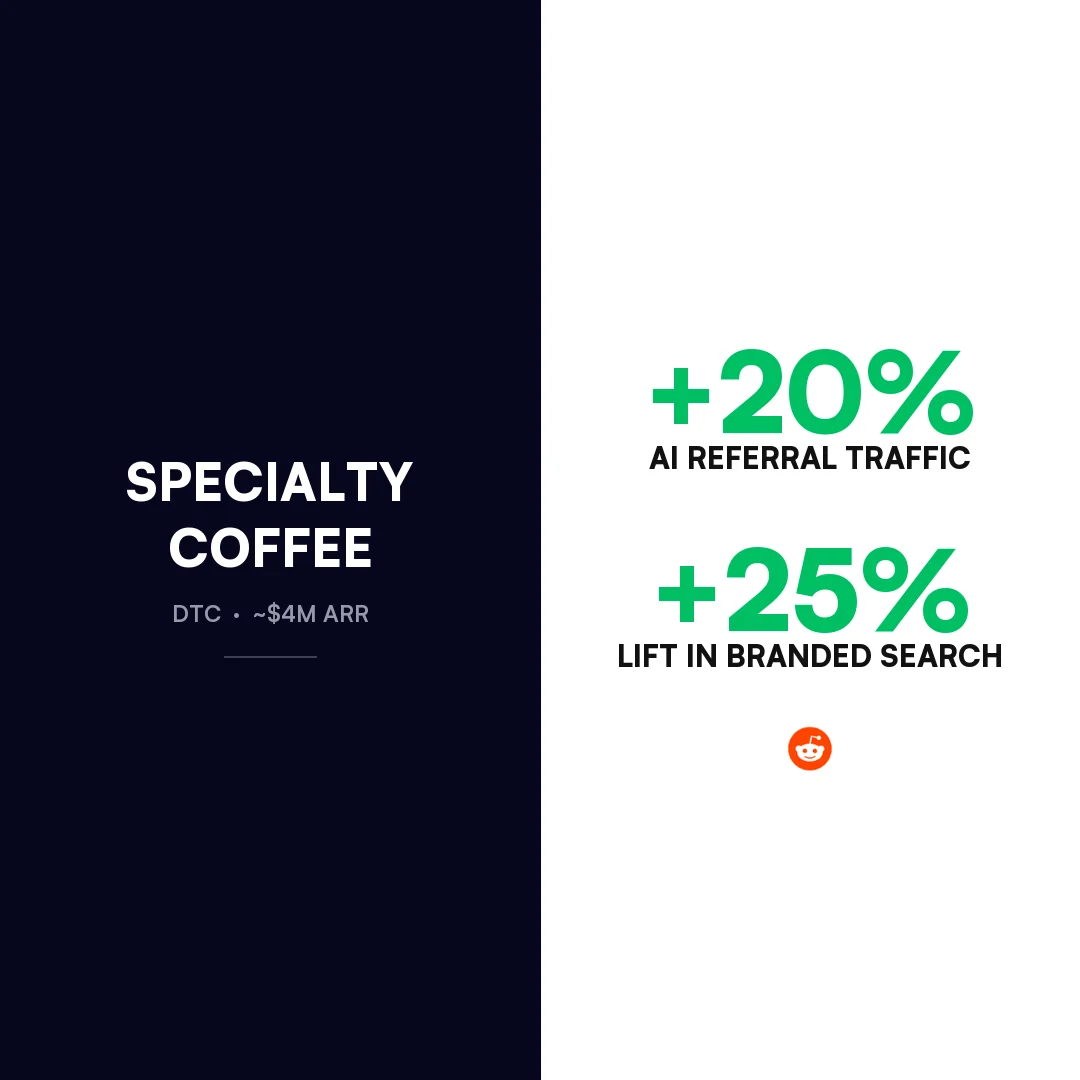
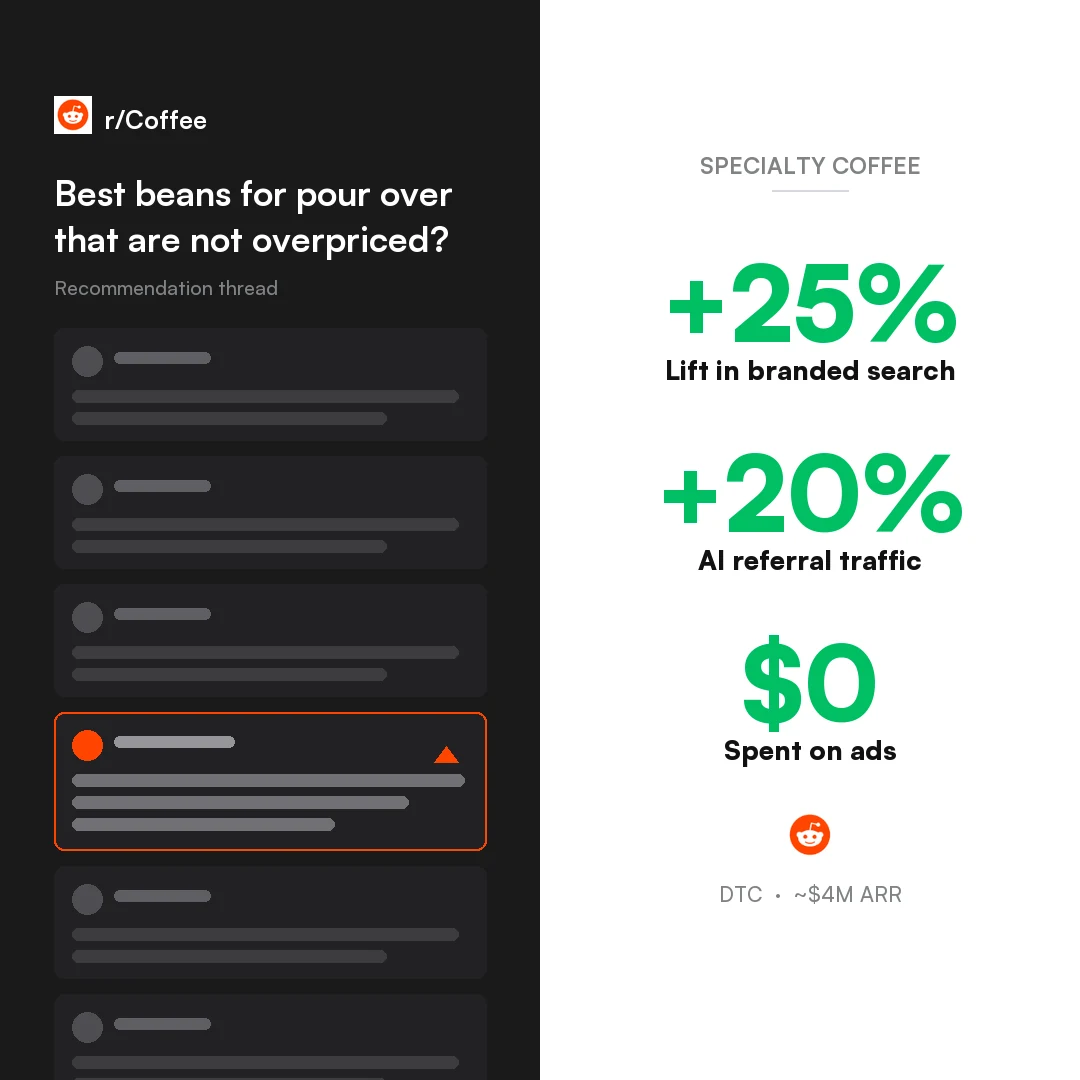
design(case-studies): redo the four Reddit covers
First pass copied the Flare cover's dark navy, but that navy is Flare's own
brand colour from their ad creative, not ours. The house style on CozyBeds,
Lottery and Restream puts rich client imagery in the left panel; mine had
flat colour and centred text, which is why they read as dull.

These clients cannot be named, so the left panel is now a Reddit thread
treatment: the subreddit, the question that actually drives the purchase,
and six anonymised comment rows with one highlighted in orange as the
earned recommendation. Comment bodies are abstracted bars rather than
invented quotes, so nothing fabricates a specific real thread. The last row
bleeds off the bottom edge so the thread reads as continuing.

Right panel moves to three stats to match the other covers, and adds a
category eyebrow and ARR band. Coffee now leads with the fact worth having
on a cover: /bin/zsh spent on ads.

diff --git a/case-studies.html b/case-studies.html
@@ -310,7 +310,7 @@
 
   <a href="/work/dtc-gifting-reddit-ads" class="cs-card" data-cat="dtc">
     <div class="cs-card-img">
-      <img src="/assets/Gifting Reddit Case Study.webp" alt="DTC personalized gifting brand Reddit Ads case study, 2.36x ROAS" loading="lazy">
+      <img src="/assets/Gifting Reddit Case Study.webp?v=d28a824f" alt="DTC personalized gifting brand Reddit Ads case study, 2.36x ROAS" loading="lazy">
     </div>
     <div class="cs-card-body">
       <div class="cs-card-tag"><span class="tag-dtc">eComm / DTC</span><span class="tag-dtc" style="background:rgba(234,88,12,0.05);">Reddit Ads</span></div>
@@ -322,7 +322,7 @@
 
   <a href="/work/personal-safety-reddit-ads" class="cs-card" data-cat="dtc">
     <div class="cs-card-img">
-      <img src="/assets/Personal Safety Reddit Case Study.webp" alt="Personal safety DTC brand Reddit Ads case study, 3x ROAS in a restricted category" loading="lazy">
+      <img src="/assets/Personal Safety Reddit Case Study.webp?v=d28a824f" alt="Personal safety DTC brand Reddit Ads case study, 3x ROAS in a restricted category" loading="lazy">
     </div>
     <div class="cs-card-body">
       <div class="cs-card-tag"><span class="tag-dtc">eComm / DTC</span><span class="tag-dtc" style="background:rgba(234,88,12,0.05);">Reddit Ads &middot; Restricted</span></div>
@@ -334,7 +334,7 @@
 
   <a href="/work/skincare-reddit-q4" class="cs-card" data-cat="dtc">
     <div class="cs-card-img">
-      <img src="/assets/Skincare Reddit Case Study.webp" alt="Beauty and skincare brand Reddit organic and paid Q4 case study, 2.1x ROAS" loading="lazy">
+      <img src="/assets/Skincare Reddit Case Study.webp?v=d28a824f" alt="Beauty and skincare brand Reddit organic and paid Q4 case study, 2.1x ROAS" loading="lazy">
     </div>
     <div class="cs-card-body">
       <div class="cs-card-tag"><span class="tag-dtc">eComm / DTC</span><span class="tag-dtc" style="background:rgba(234,88,12,0.05);">Reddit Organic + Paid</span></div>
@@ -346,7 +346,7 @@
 
   <a href="/work/coffee-reddit-organic" class="cs-card" data-cat="dtc">
     <div class="cs-card-img">
-      <img src="/assets/Coffee Reddit Case Study.webp" alt="Specialty coffee roaster Reddit organic marketing case study, branded search lift" loading="lazy">
+      <img src="/assets/Coffee Reddit Case Study.webp?v=d28a824f" alt="Specialty coffee roaster Reddit organic marketing case study, branded search lift" loading="lazy">
     </div>
     <div class="cs-card-body">
       <div class="cs-card-tag"><span class="tag-dtc">eComm / DTC</span><span class="tag-dtc" style="background:rgba(234,88,12,0.05);">Reddit Organic</span></div>

diff --git a/work/personal-safety-reddit-ads.html b/work/personal-safety-reddit-ads.html
@@ -11,9 +11,9 @@
   <meta property="og:url" content="https://skipthenoisemedia.com/work/personal-safety-reddit-ads">
   <meta property="og:title" content="Personal Safety DTC &mdash; 3x ROAS on Reddit Ads in a Restricted Category">
   <meta property="og:description" content="How a ~$2.5M ARR personal safety brand advertised on Reddit despite weapons-policy filters, reaching 3x ROAS at test scale and scaling from $5K to $10K a month.">
-  <meta property="og:image" content="https://skipthenoisemedia.com/assets/Personal Safety Reddit Case Study.png">
+  <meta property="og:image" content="https://skipthenoisemedia.com/assets/Personal Safety Reddit Case Study.png?v=d28a824f">
   <meta name="twitter:card" content="summary_large_image">
-  <meta name="twitter:image" content="https://skipthenoisemedia.com/assets/Personal Safety Reddit Case Study.png">
+  <meta name="twitter:image" content="https://skipthenoisemedia.com/assets/Personal Safety Reddit Case Study.png?v=d28a824f">
   <link rel="canonical" href="https://skipthenoisemedia.com/work/personal-safety-reddit-ads">
   <link rel="preconnect" href="https://api.fontshare.com" crossorigin>
   <link rel="preload" href="https://api.fontshare.com/v2/css?f[]=satoshi@300,400,500,700,900&display=swap" as="style" onload="this.onload=null;this.rel='stylesheet'">
@@ -28,7 +28,7 @@
   "@type": "Article",
   "headline": "Personal Safety DTC \u2014 3x ROAS on Reddit Ads in a Restricted Category",
   "description": "How a ~$2.5M ARR personal safety brand advertised on Reddit despite weapons-policy filters, reaching 3x ROAS at test scale and scaling from $5K to $10K a month.",
-  "image": "https://skipthenoisemedia.com/assets/Personal Safety Reddit Case Study.png",
+  "image": "https://skipthenoisemedia.com/assets/Personal Safety Reddit Case Study.png?v=d28a824f",
   "author": {
     "@type": "Organization",
     "name": "Skip the Noise Media",
@@ -287,7 +287,7 @@
       <p class="cs-hero-desc">Reddit is where women ask each other what they actually carry. Not in a tactical way. In a &ldquo;what fits on my keys and won&rsquo;t get me weird looks&rdquo; way.</p>
     </div>
     <div class="cs-hero-img">
-      <img src="/assets/Personal Safety Reddit Case Study.png" alt="Personal Safety & Lifestyle · Reddit Ads Reddit case study" loading="eager">
+      <img src="/assets/Personal Safety Reddit Case Study.png?v=d28a824f" alt="Personal Safety & Lifestyle · Reddit Ads Reddit case study" loading="eager">
     </div>
   </div>
 </section>

diff --git a/work/coffee-reddit-organic.html b/work/coffee-reddit-organic.html
@@ -11,9 +11,9 @@
   <meta property="og:url" content="https://skipthenoisemedia.com/work/coffee-reddit-organic">
   <meta property="og:title" content="Specialty Coffee Roaster &mdash; Reddit Organic Case Study">
   <meta property="og:description" content="How a ~$4M ARR specialty coffee roaster earned recommendations in r/Coffee, r/espresso and r/pourover with no ad spend, lifting branded search 25% and AI referral traffic 20%.">
-  <meta property="og:image" content="https://skipthenoisemedia.com/assets/Coffee Reddit Case Study.png">
+  <meta property="og:image" content="https://skipthenoisemedia.com/assets/Coffee Reddit Case Study.png?v=d28a824f">
   <meta name="twitter:card" content="summary_large_image">
-  <meta name="twitter:image" content="https://skipthenoisemedia.com/assets/Coffee Reddit Case Study.png">
+  <meta name="twitter:image" content="https://skipthenoisemedia.com/assets/Coffee Reddit Case Study.png?v=d28a824f">
   <link rel="canonical" href="https://skipthenoisemedia.com/work/coffee-reddit-organic">
   <link rel="preconnect" href="https://api.fontshare.com" crossorigin>
   <link rel="preload" href="https://api.fontshare.com/v2/css?f[]=satoshi@300,400,500,700,900&display=swap" as="style" onload="this.onload=null;this.rel='stylesheet'">
@@ -28,7 +28,7 @@
   "@type": "Article",
   "headline": "Specialty Coffee Roaster \u2014 Reddit Organic Case Study",
   "description": "How a ~$4M ARR specialty coffee roaster earned recommendations in r/Coffee, r/espresso and r/pourover with no ad spend, lifting branded search 25% and AI referral traffic 20%.",
-  "image": "https://skipthenoisemedia.com/assets/Coffee Reddit Case Study.png",
+  "image": "https://skipthenoisemedia.com/assets/Coffee Reddit Case Study.png?v=d28a824f",
   "author": {
     "@type": "Organization",
     "name": "Skip the Noise Media",
@@ -287,7 +287,7 @@
       <p class="cs-hero-desc">People on Reddit ask which beans and roasters are worth buying, and those communities spot a brand account fast. So we focused on earning real recommendations instead of running ads.</p>
     </div>
     <div class="cs-hero-img">
-      <img src="/assets/Coffee Reddit Case Study.png" alt="Specialty Coffee · Reddit Organic Reddit case study" loading="eager">
+      <img src="/assets/Coffee Reddit Case Study.png?v=d28a824f" alt="Specialty Coffee · Reddit Organic Reddit case study" loading="eager">
     </div>
   </div>
 </section>

diff --git a/work/skincare-reddit-q4.html b/work/skincare-reddit-q4.html
@@ -11,9 +11,9 @@
   <meta property="og:url" content="https://skipthenoisemedia.com/work/skincare-reddit-q4">
   <meta property="og:title" content="Beauty &amp; Skincare Brand &mdash; 2.1x ROAS on Reddit in Q4">
   <meta property="og:description" content="How a ~$12M ARR actives-led skincare brand ran Reddit organic and paid together through Q4, hitting 2.1x ROAS on paid while scaling spend from $5K to $20K a month.">
-  <meta property="og:image" content="https://skipthenoisemedia.com/assets/Skincare Reddit Case Study.png">
+  <meta property="og:image" content="https://skipthenoisemedia.com/assets/Skincare Reddit Case Study.png?v=d28a824f">
   <meta name="twitter:card" content="summary_large_image">
-  <meta name="twitter:image" content="https://skipthenoisemedia.com/assets/Skincare Reddit Case Study.png">
+  <meta name="twitter:image" content="https://skipthenoisemedia.com/assets/Skincare Reddit Case Study.png?v=d28a824f">
   <link rel="canonical" href="https://skipthenoisemedia.com/work/skincare-reddit-q4">
   <link rel="preconnect" href="https://api.fontshare.com" crossorigin>
   <link rel="preload" href="https://api.fontshare.com/v2/css?f[]=satoshi@300,400,500,700,900&display=swap" as="style" onload="this.onload=null;this.rel='stylesheet'">
@@ -28,7 +28,7 @@
   "@type": "Article",
   "headline": "Beauty & Skincare Brand \u2014 2.1x ROAS on Reddit in Q4",
   "description": "How a ~$12M ARR actives-led skincare brand ran Reddit organic and paid together through Q4, hitting 2.1x ROAS on paid while scaling spend from $5K to $20K a month.",
-  "image": "https://skipthenoisemedia.com/assets/Skincare Reddit Case Study.png",
+  "image": "https://skipthenoisemedia.com/assets/Skincare Reddit Case Study.png?v=d28a824f",
   "author": {
     "@type": "Organization",
     "name": "Skip the Noise Media",
@@ -287,7 +287,7 @@
       <p class="cs-hero-desc">Skincare buyers compare ingredients and hunt for deals before the holidays, and a lot of that research happens on Reddit. So we ran organic and paid together through Q4.</p>
     </div>
     <div class="cs-hero-img">
-      <img src="/assets/Skincare Reddit Case Study.png" alt="Beauty & Skincare · Reddit Organic + Paid Reddit case study" loading="eager">
+      <img src="/assets/Skincare Reddit Case Study.png?v=d28a824f" alt="Beauty & Skincare · Reddit Organic + Paid Reddit case study" loading="eager">
     </div>
   </div>
 </section>

diff --git a/work/dtc-gifting-reddit-ads.html b/work/dtc-gifting-reddit-ads.html
@@ -11,9 +11,9 @@
   <meta property="og:url" content="https://skipthenoisemedia.com/work/dtc-gifting-reddit-ads">
   <meta property="og:title" content="DTC Gifting Brand &mdash; 2.36x ROAS on Reddit Ads">
   <meta property="og:description" content="How a ~$2M ARR personalized gifting brand used Reddit Ads to reach buyers between gifting peaks, hitting 2.36x ROAS on the US segment while scaling spend from $1.5K to $7.5K a month.">
-  <meta property="og:image" content="https://skipthenoisemedia.com/assets/Gifting Reddit Case Study.png">
+  <meta property="og:image" content="https://skipthenoisemedia.com/assets/Gifting Reddit Case Study.png?v=d28a824f">
   <meta name="twitter:card" content="summary_large_image">
-  <meta name="twitter:image" content="https://skipthenoisemedia.com/assets/Gifting Reddit Case Study.png">
+  <meta name="twitter:image" content="https://skipthenoisemedia.com/assets/Gifting Reddit Case Study.png?v=d28a824f">
   <link rel="canonical" href="https://skipthenoisemedia.com/work/dtc-gifting-reddit-ads">
   <link rel="preconnect" href="https://api.fontshare.com" crossorigin>
   <link rel="preload" href="https://api.fontshare.com/v2/css?f[]=satoshi@300,400,500,700,900&display=swap" as="style" onload="this.onload=null;this.rel='stylesheet'">
@@ -28,7 +28,7 @@
   "@type": "Article",
   "headline": "DTC Gifting Brand \u2014 2.36x ROAS on Reddit Ads",
   "description": "How a ~$2M ARR personalized gifting brand used Reddit Ads to reach buyers between gifting peaks, hitting 2.36x ROAS on the US segment while scaling spend from $1.5K to $7.5K a month.",
-  "image": "https://skipthenoisemedia.com/assets/Gifting Reddit Case Study.png",
+  "image": "https://skipthenoisemedia.com/assets/Gifting Reddit Case Study.png?v=d28a824f",
   "author": {
     "@type": "Organization",
     "name": "Skip the Noise Media",
@@ -287,7 +287,7 @@
       <p class="cs-hero-desc">Their sales were concentrated around a few gifting seasons. We tested Reddit as a second channel to reach buyers in between those peaks.</p>
     </div>
     <div class="cs-hero-img">
-      <img src="/assets/Gifting Reddit Case Study.png" alt="Personalized Gifting · Reddit Ads Reddit case study" loading="eager">
+      <img src="/assets/Gifting Reddit Case Study.png?v=d28a824f" alt="Personalized Gifting · Reddit Ads Reddit case study" loading="eager">
     </div>
   </div>
 </section>
